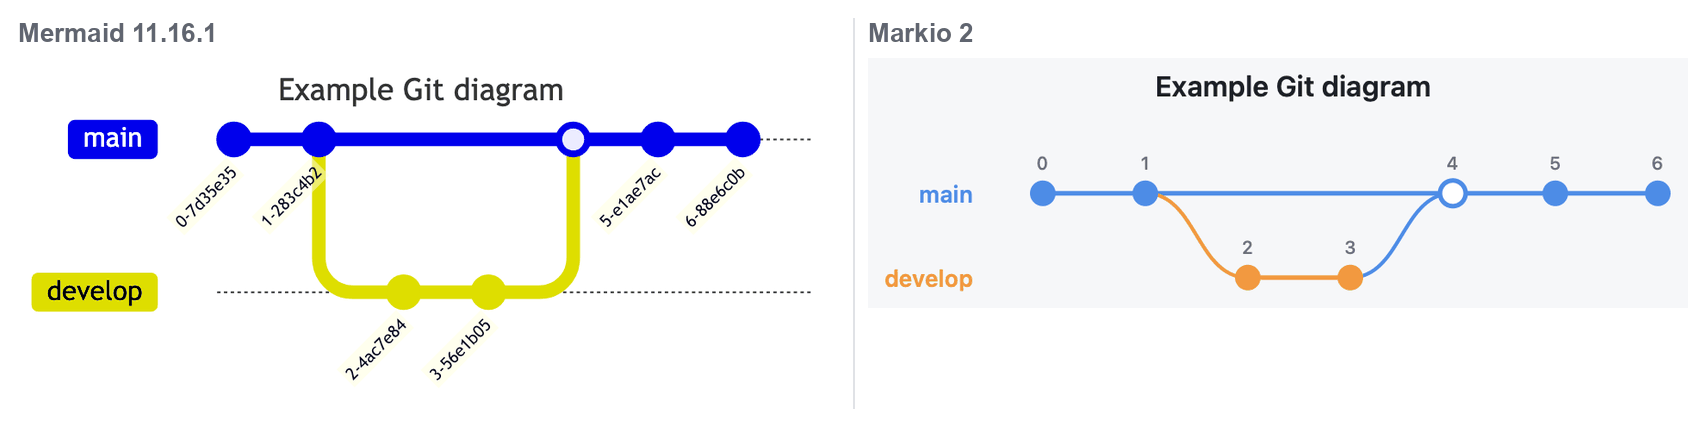
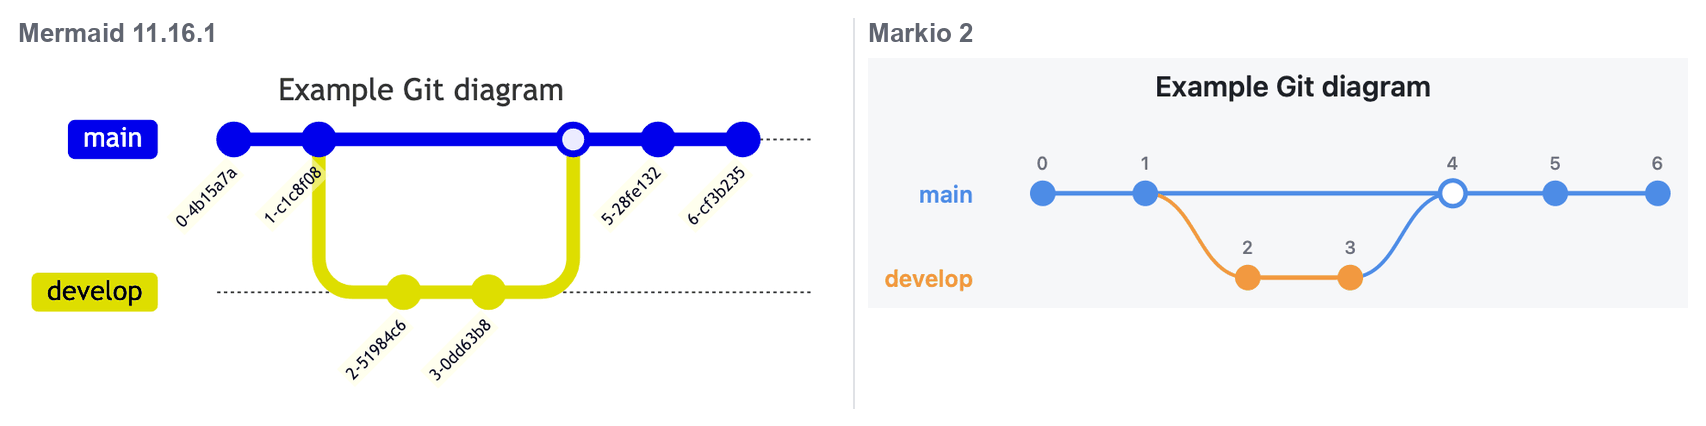
feat: let a git graph hide the names under its commits
`showCommitLabel: false` leaves the graph as the shape of its branches and
nothing else, which is what an author who does not want the names writes. A tag
is not a name and stays where it is.

Mermaid's documentation gives this setting on a directive line, and the directive
reader here only ever understood `theme`. It now reads whatever a preamble reads,
nested as deeply, into the same key paths — the two spellings had always claimed
to say the same thing. A setting that would change the picture and that this
cannot follow still refuses the whole diagram; the words that say nothing about
the picture, such as how loudly Mermaid logs, are named one by one and passed
over, which is what lets the snippet from the documentation be pasted as it is.

diff --git a/Sources/MarkioRender/Mermaid.swift b/Sources/MarkioRender/Mermaid.swift
@@ -53,6 +53,10 @@ enum MermaidDiagram {
         /// `config.gitGraph.mainBranchName`: what the branch every graph starts
         /// on is called, which `checkout` has to be able to name.
         var gitMainBranch = "main"
+        /// `config.gitGraph.showCommitLabel`: whether a commit is named under
+        /// its dot at all. Turned off, a graph is the shape of its branches
+        /// and nothing else.
+        var gitCommitLabels = true
     }
 
     static func parse(_ source: String) -> MermaidDiagram? {
@@ -161,6 +165,8 @@ enum MermaidDiagram {
             case ["config", "gitGraph", "mainBranchName"]:
                 guard !value.contains(" ") else { continue }
                 settings.gitMainBranch = value
+            case ["config", "gitGraph", "showCommitLabel"]:
+                settings.gitCommitLabels = value != "false"
             case ["config", "theme"]:
                 // A theme nobody knows leaves the reader's own colours, which
                 // is what Mermaid falls back to for one.
@@ -179,10 +185,14 @@ enum MermaidDiagram {
 
     /// Mermaid's `%%{ … }%%` directive lines, taken out of the body and read.
     ///
-    /// Only `init.theme` says anything about what is drawn; every other
-    /// directive changes how Mermaid draws, and a diagram drawn to settings
-    /// other than its author's is the half-truth the whole reader avoids. So an
-    /// unknown one gives nil rather than being passed over as a comment.
+    /// A directive says what a preamble says, on a line that otherwise looks
+    /// like a comment, so the settings it may carry are the same ones. A setting
+    /// that changes how Mermaid draws rather than what it draws, and that this
+    /// cannot follow, gives nil rather than being passed over as a comment: a
+    /// diagram drawn to settings other than its author's is the half-truth the
+    /// whole reader avoids. The few words that say nothing about the picture at
+    /// all — how loudly Mermaid logs, when it starts — are the exception, and
+    /// they are named one by one.
     private static func directives(_ body: String, into settings: inout Settings) -> String? {
         var kept: [Substring] = []
         for line in body.split(separator: "\n", omittingEmptySubsequences: false) {
@@ -191,19 +201,108 @@ enum MermaidDiagram {
                 kept.append(line)
                 continue
             }
-            let inside = String(text.dropFirst(3).dropLast(3))
-            // `init: {'theme': 'forest'}` and `'init': { "theme": "forest" }`
-            // are the same line written two ways.
-            let words = inside.split(whereSeparator: { ":,{}".contains($0) })
-                .map { $0.trimmingCharacters(in: CharacterSet(charactersIn: "\"' ")) }
-                .filter { !$0.isEmpty }
-            guard words.count == 3, words[0] == "init" || words[0] == "initialize",
-                words[1] == "theme",
-                ["default", "base", "neutral", "forest", "dark"].contains(words[2])
-            else { return nil }
-            settings.theme = words[2]
+            guard let said = written(String(text.dropFirst(3).dropLast(3))) else { return nil }
+            for (path, value) in said {
+                switch path {
+                case ["theme"]:
+                    guard ["default", "base", "neutral", "forest", "dark"].contains(value)
+                    else { return nil }
+                    settings.theme = value
+                case ["gitGraph", "mainBranchName"]:
+                    guard !value.contains(" ") else { return nil }
+                    settings.gitMainBranch = value
+                case ["gitGraph", "showCommitLabel"]:
+                    settings.gitCommitLabels = value != "false"
+                case ["kanban", "ticketBaseUrl"]:
+                    settings.ticketBaseUrl = value
+                case ["kanban", "sectionWidth"]:
+                    guard let width = Double(value), width >= 40, width <= 2000 else { return nil }
+                    settings.kanbanColumnWidth = width
+                case ["gantt", "displayMode"]:
+                    settings.ganttCompact = value == "compact"
+                case ["logLevel"], ["securityLevel"], ["startOnLoad"]:
+                    // How Mermaid runs, not what it draws.
+                    continue
+                default:
+                    return nil
+                }
+            }
         }
         return kept.joined(separator: "\n")
+    }
+
+    /// What an `init` directive holds: every value in it, with the keys it was
+    /// written under. `init: {'a': {'b': 1}, 'c': 2}` gives `(["a","b"], "1")`
+    /// and `(["c"], "2")`. Nil when the line is not an `init` directive or does
+    /// not close everything it opens.
+    private static func written(_ text: String) -> [(path: [String], value: String)]? {
+        let chars = Array(text)
+        var at = 0
+        var found: [(path: [String], value: String)] = []
+        func skip() {
+            while at < chars.count, chars[at].isWhitespace { at += 1 }
+        }
+        /// A key or a scalar, quoted or bare.
+        func word() -> String? {
+            skip()
+            guard at < chars.count else { return nil }
+            if chars[at] == "\"" || chars[at] == "'" {
+                let quote = chars[at]
+                at += 1
+                var out = ""
+                while at < chars.count, chars[at] != quote {
+                    out.append(chars[at])
+                    at += 1
+                }
+                guard at < chars.count else { return nil }
+                at += 1
+                return out
+            }
+            var out = ""
+            while at < chars.count, !":,{}".contains(chars[at]) {
+                out.append(chars[at])
+                at += 1
+            }
+            let clean = out.trimmingCharacters(in: .whitespaces)
+            return clean.isEmpty ? nil : clean
+        }
+        func object(_ under: [String]) -> Bool {
+            skip()
+            guard at < chars.count, chars[at] == "{" else { return false }
+            at += 1
+            while true {
+                skip()
+                guard at < chars.count else { return false }
+                if chars[at] == "}" {
+                    at += 1
+                    return true
+                }
+                if chars[at] == "," {
+                    at += 1
+                    continue
+                }
+                guard let key = word() else { return false }
+                skip()
+                guard at < chars.count, chars[at] == ":" else { return false }
+                at += 1
+                skip()
+                guard at < chars.count else { return false }
+                if chars[at] == "{" {
+                    guard object(under + [key]) else { return false }
+                } else {
+                    guard let value = word() else { return false }
+                    found.append((under + [key], value))
+                }
+            }
+        }
+        guard let head = word(), head == "init" || head == "initialize" else { return nil }
+        skip()
+        guard at < chars.count, chars[at] == ":" else { return nil }
+        at += 1
+        guard object([]) else { return nil }
+        skip()
+        guard at == chars.count else { return nil }
+        return found
     }
 
     /// A YAML scalar as written on one line: the value, and its quotes taken off
@@ -345,7 +444,7 @@ enum MermaidDiagram {
             guard ["", "LR", "TB", "BT"].contains(turn) else { return nil }
             return GitGraph.parse(
                 rest, vertical: turn == "TB" || turn == "BT",
-                mainBranch: settings.gitMainBranch
+                mainBranch: settings.gitMainBranch, names: settings.gitCommitLabels
             )
             .map(MermaidDiagram.git)
         }

diff --git a/Tests/MarkioRenderTests/MermaidTests.swift b/Tests/MarkioRenderTests/MermaidTests.swift
@@ -1636,6 +1636,48 @@ final class MermaidTests: XCTestCase {
                     + "  cherry-pick id:\"M\" parent:\"ghost\""))
     }
 
+    /// `showCommitLabel: false` leaves a graph as the shape of its branches:
+    /// no commit is named under its dot. A tag is not a name and stays. The
+    /// setting is written either in the preamble or on a directive line, and
+    /// Mermaid's own documentation shows the directive with two words beside it
+    /// that say nothing about the picture — how loudly it logs, and a theme.
+    func testAGitGraphMayHideItsCommitNames() throws {
+        let preamble = """
+            ---
+            config:
+              gitGraph:
+                showCommitLabel: false
+            ---
+            gitGraph
+              commit
+              commit tag: "v1.0"
+            """
+        guard case .git(let quiet)? = MermaidDiagram.parse(preamble) else {
+            return XCTFail("expected a git graph")
+        }
+        XCTAssertFalse(quiet.names)
+        XCTAssertEqual(quiet.commits.map(\.tag), ["", "v1.0"])
+
+        let directive = """
+            %%{init: { 'logLevel': 'default', 'theme': 'base', 'gitGraph': {'showCommitLabel':false}} }%%
+            gitGraph
+              commit
+              commit
+            """
+        guard case .themed("base", .git(let told))? = MermaidDiagram.parse(directive) else {
+            return XCTFail("expected a git graph painted in a named theme")
+        }
+        XCTAssertFalse(told.names)
+
+        // Said by nobody, every commit is named.
+        guard case .git(let plain)? = MermaidDiagram.parse("gitGraph\n  commit\n  commit") else {
+            return XCTFail("expected a git graph")
+        }
+        XCTAssertTrue(plain.names)
+        XCTAssertNotNil(
+            DocumentRenderer.diagram(source: preamble, theme: Theme(isDark: false), width: 700))
+    }
+
     /// A mindmap may paint the node above with `:::name` on a line of its own,
     /// one class or several. A class nobody defined paints nothing.
     func testAMindmapPaintsANodeFromTheLineBelowIt() throws {

diff --git a/Sources/MarkioRender/MermaidLayout.swift b/Sources/MarkioRender/MermaidLayout.swift
@@ -3019,10 +3019,12 @@ enum MermaidLayout {
         // stack instead and the dots need no more room than they take.
         let tagFont = scaled(theme.bodyBold, by: metrics.scale * 0.8)
         let widest =
-            graph.commits.map {
+            graph.commits.map { commit in
                 max(
-                    measure(text($0.label, font: font, color: theme.palette.text)).width,
-                    measure(text($0.tag, font: tagFont, color: theme.palette.text)).width)
+                    graph.names
+                        ? measure(text(commit.label, font: font, color: theme.palette.text)).width
+                        : 0,
+                    measure(text(commit.tag, font: tagFont, color: theme.palette.text)).width)
             }.max() ?? 0
         let step = down ? 56 * metrics.scale : max(56 * metrics.scale, widest + 8 * metrics.scale)
         let lane = 46 * metrics.scale
@@ -3186,8 +3188,9 @@ enum MermaidLayout {
             // unique & random ID", as its own documentation puts it — and a
             // string that is different every time the picture is drawn is not
             // a hash of anything. Writing one here would show the reader an
-            // identifier that refers to nothing.
-            let name = commit.label.isEmpty ? "\(order)" : commit.label
+            // identifier that refers to nothing. A graph whose author turned
+            // `showCommitLabel` off is drawn as its branches alone.
+            let name = graph.names ? (commit.label.isEmpty ? "\(order)" : commit.label) : ""
             for (words, above) in [(name, true), (commit.tag, false)] where !words.isEmpty {
                 let line = text(
                     words, font: above ? font : tagFont,

diff --git a/Sources/MarkioRender/MermaidPlots.swift b/Sources/MarkioRender/MermaidPlots.swift
@@ -328,11 +328,17 @@ struct GitGraph {
     var commits: [Commit]
     /// `gitGraph TB:`: the lanes run down the page rather than across it.
     var vertical = false
+    /// `showCommitLabel`, which a preamble or a directive may turn off: then a
+    /// commit is a dot on its lane with nothing written under it. A tag is not
+    /// a name and stays where it is.
+    var names = true
 
-    static func parse(_ lines: [Substring], vertical: Bool = false, mainBranch: String = "main")
-        -> GitGraph?
-    {
-        var graph = GitGraph(branches: [mainBranch], commits: [], vertical: vertical)
+    static func parse(
+        _ lines: [Substring], vertical: Bool = false, mainBranch: String = "main",
+        names: Bool = true
+    ) -> GitGraph? {
+        var graph = GitGraph(
+            branches: [mainBranch], commits: [], vertical: vertical, names: names)
         var current = 0
         var column = 0
         /// The last commit on each branch, which is what a merge line points at.

diff --git a/documents/design.md b/documents/design.md
@@ -333,7 +333,13 @@ the theme was written over a fence rather than over the document.
 `%%{init: {'theme':'forest'}}%%` says the same thing on a line that looks like a
 comment, so directive lines are taken out of the body and read before the
 diagram is — passing one over as a comment would draw the picture in colours its
-author did not choose, which is the half-truth everything else here avoids.
+author did not choose, which is the half-truth everything else here avoids. A
+directive carries whatever a preamble carries, nested as deeply, so it is read
+into the same key paths rather than into a shape of its own: Mermaid's own
+documentation writes `showCommitLabel` this way and no other. A setting that
+would change the picture and that this cannot follow still refuses the whole
+diagram; the words that say nothing about the picture at all — how loudly
+Mermaid logs, when it starts — are named one by one and passed over.
 
 `MermaidLayout` places it. A flowchart is ranked by longest path — the edges
 relaxed `|V|` times, which gives a topological answer and cannot spin on a cycle
@@ -613,9 +619,11 @@ unique & random ID": seven hex characters drawn afresh every time the picture is
 drawn, so they are not a hash of anything and no reader can look them up. Writing
 a string of that shape here would put an identifier in front of the reader that
 refers to nothing, and working one out from the source instead would only make
-the invention repeatable. The names set how far apart the commits stand across
-the page: a name is far wider than the dot it belongs to, and Mermaid turns its
-names on their side to fit them where this one gives them the room. What a commit
+the invention repeatable. `showCommitLabel: false` takes the names away
+altogether, which is what an author who does not want them writes; a tag is not
+a name and stays. The names set how far apart the commits stand across the page:
+a name is far wider than the dot it belongs to, and Mermaid turns its names on
+their side to fit them where this one gives them the room. What a commit
 is decides how its
 dot is drawn: a merge is hollow because it is the one commit belonging to two
 lines at once, a `REVERSE` is crossed out, a `HIGHLIGHT` is ringed. A `type:`
